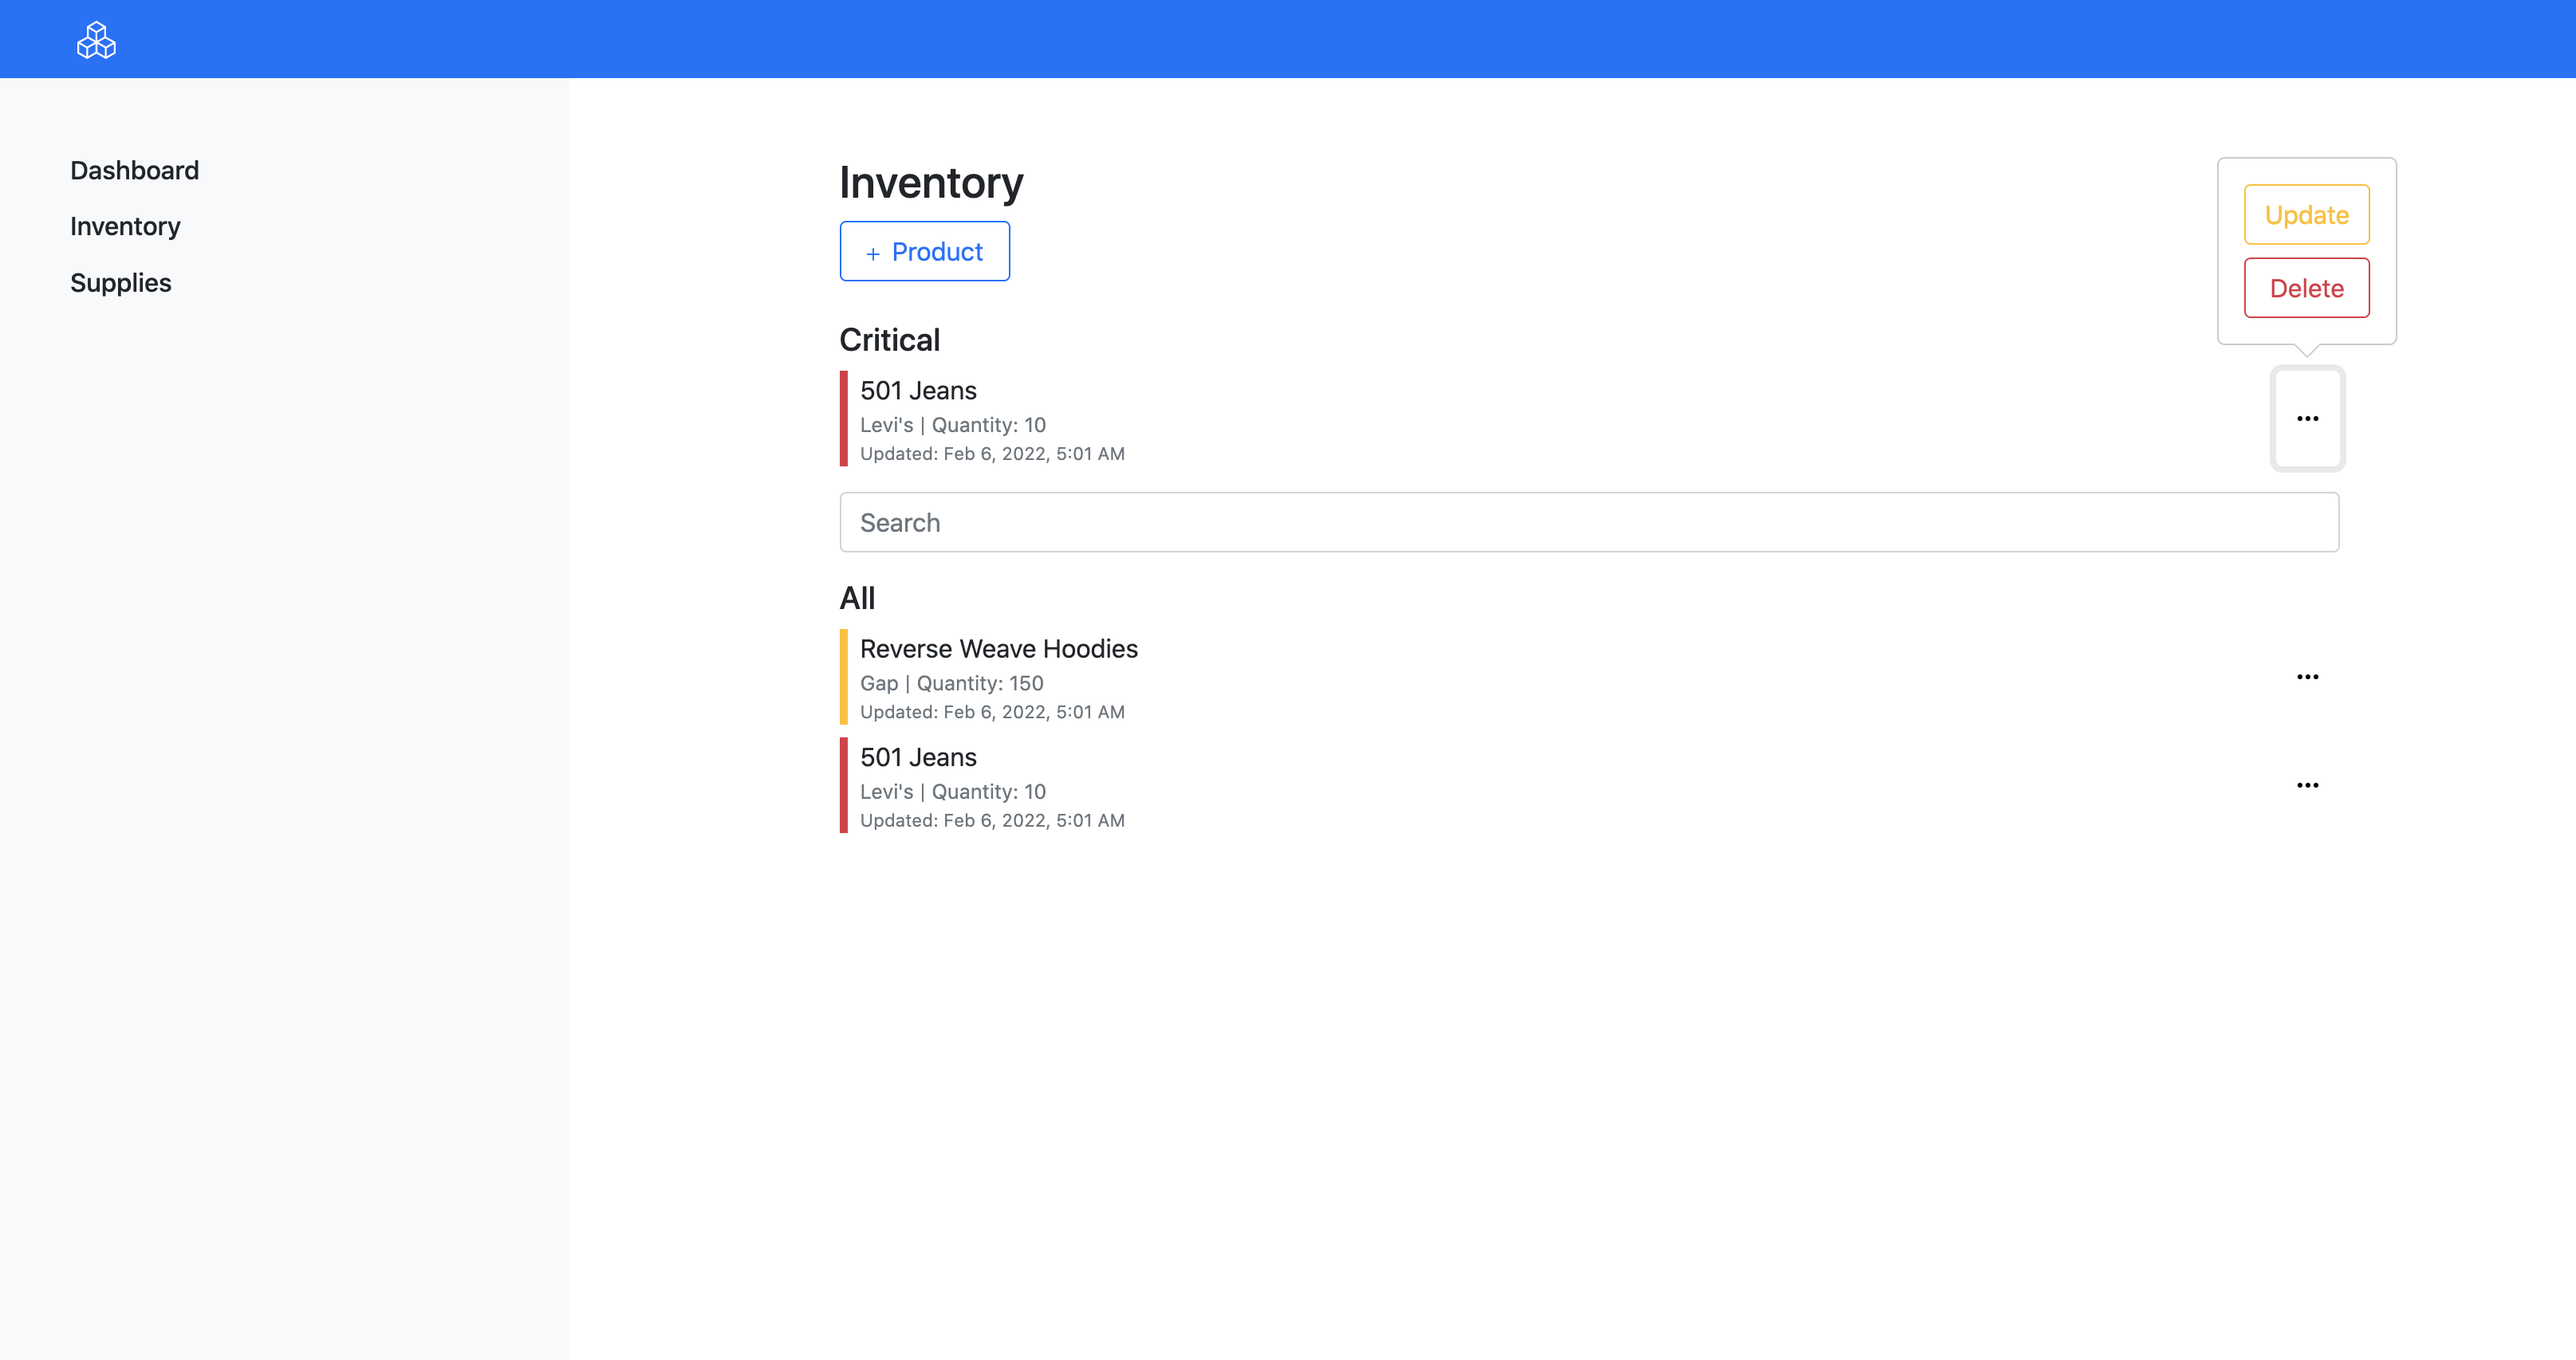
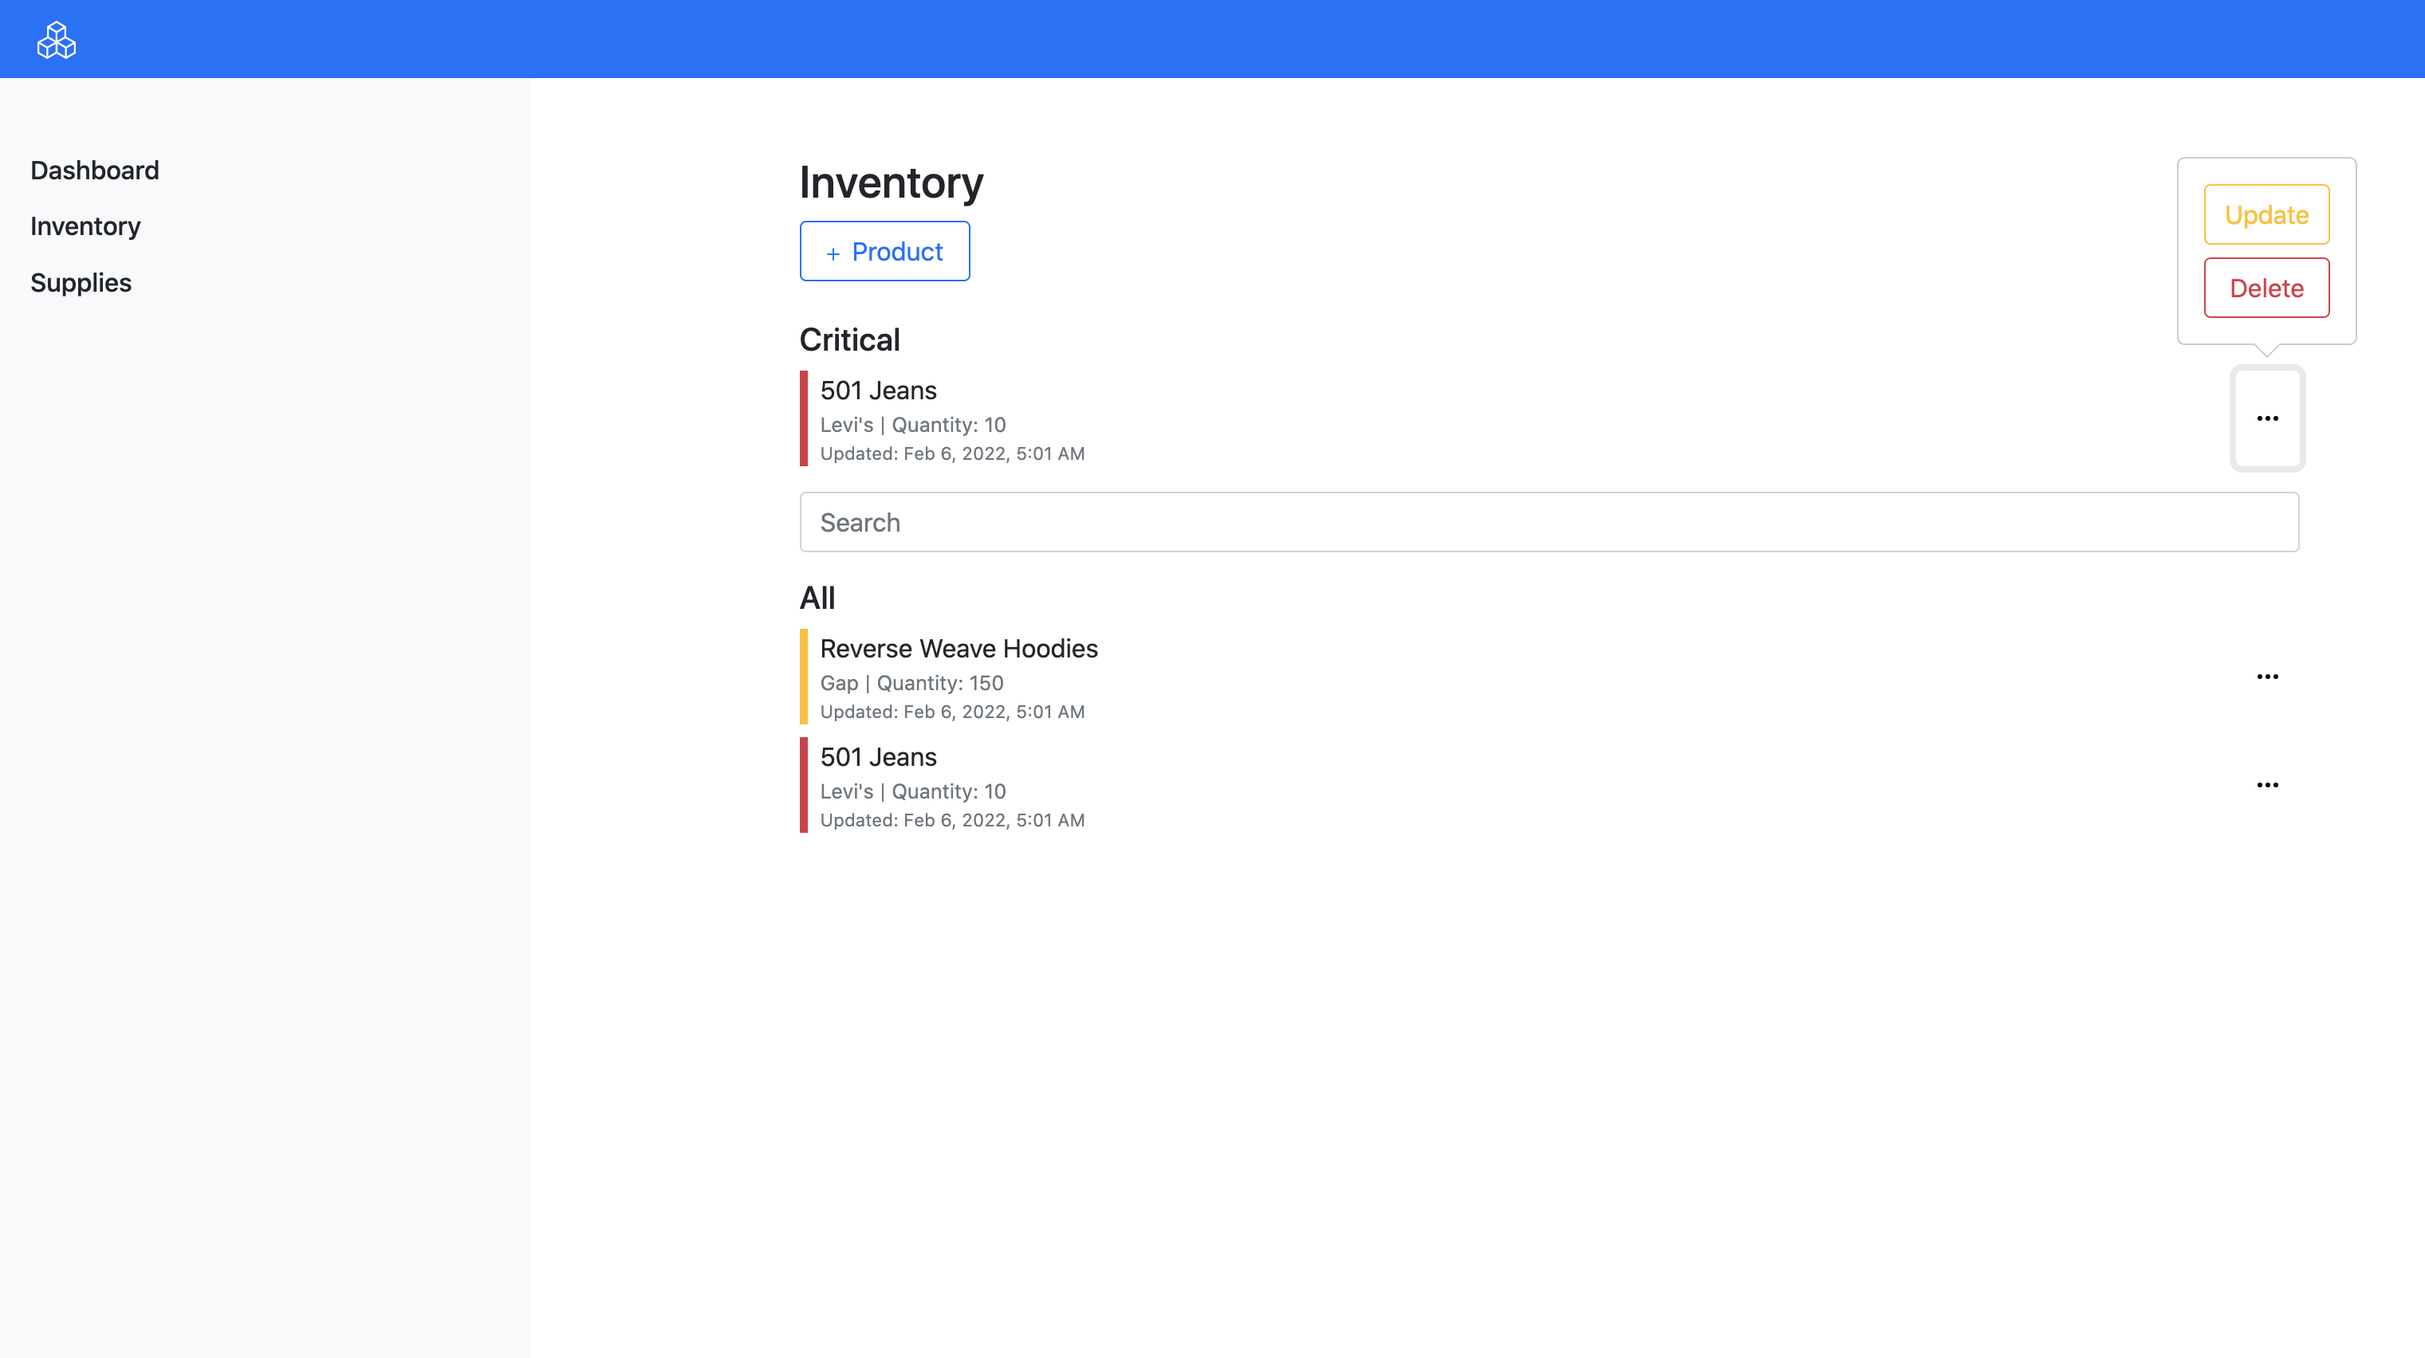
Update README.md

diff --git a/README.md b/README.md
@@ -17,10 +17,10 @@ I switched to React. I followed the MVC design pattern for the first project but
 It was difficult to implement simple features. When I moved to react, I found adding new features and keeping my code nice and modular much easier.
 
 ### Dashboard
-<img src="/demo/dashboard2.png" alt="warehouse screen" style="width: 400px;" />
+<img src="/demo/dashboard2.png" alt="warehouse screen" style="width: 500px;" />
 
 ### Inventory
-<img src="/demo/dashboard.png" alt="warehouse screen" style="width: 400px;" />
+<img src="/demo/dashboard.png" alt="warehouse screen" style="width: 500px;" />
 
 ### Responsive 
 <img src="/demo/responsive.PNG" alt="warehouse screen" style="width: 250px;" />
